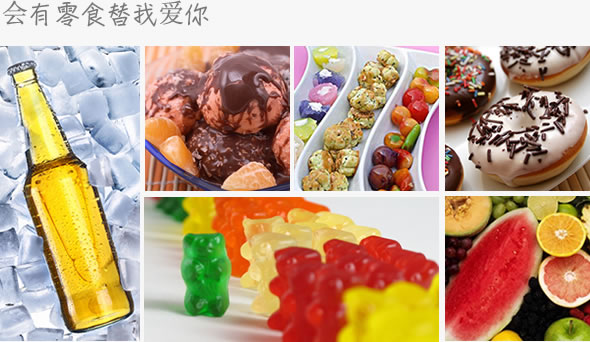
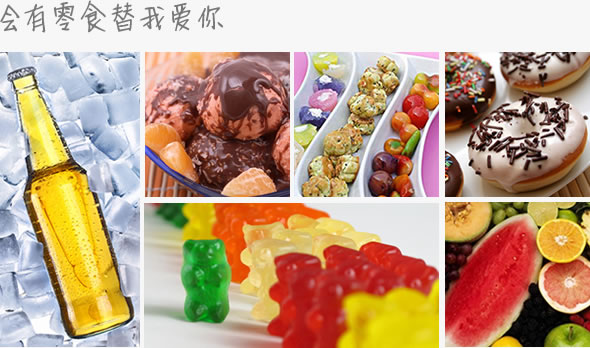
1

diff --git a/静态页/html/功能页/1.注册/register.css b/静态页/html/功能页/1.注册/register.css
@@ -38,9 +38,9 @@ a {
 }
 
 .reg_md_btm_l #desc{
-	width: 214px;
-	height: 30px;
-	background-image: url(imgs/ad_login.png);
+	width: 224px;
+	height: 33px;
+	background-image: url(imgs/ad_login.jpg);
 	background-repeat: no-repeat;
 	background-position: 0px 0px;
 	margin: 19px auto 19px 35px;
@@ -50,9 +50,9 @@ a {
 .reg_md_btm_l #imgs{
 	width: 590px;
 	height: 296px;
-	background-image: url(imgs/ad_login.png);
+	background-image: url(imgs/ad_login.jpg);
 	background-repeat: no-repeat;
-	background-position: 0px -47px;
+	background-position: 0px -52px;
 	margin-top: 19px;
 	margin-right: auto;
 	margin-bottom: 19px;
@@ -66,6 +66,12 @@ a {
 	border-left-width: 1px;
 	border-left-style: solid;
 	border-left-color: #888;
+}
+
+.reg_md_btm_r h1{
+	color: #F88C52;
+	font-family: "Arial Black";
+	text-align: center;
 }
 
 a:link {

diff --git a/静态页/html/功能页/1.注册/register.html b/静态页/html/功能页/1.注册/register.html
@@ -14,7 +14,7 @@
   </div>
   <div class="reg_md_btm">
   	<div class="reg_md_btm_l"><div id="desc"></div><div id="imgs"></div></div>
-  	<div class="reg_md_btm_r"></div>
+  	<div class="reg_md_btm_r"><h1>欢迎登录齐吃网!</h1></div>
   </div>
 </div>
 </body>
